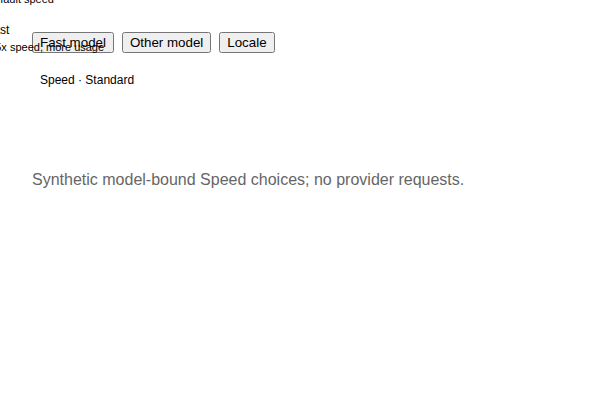
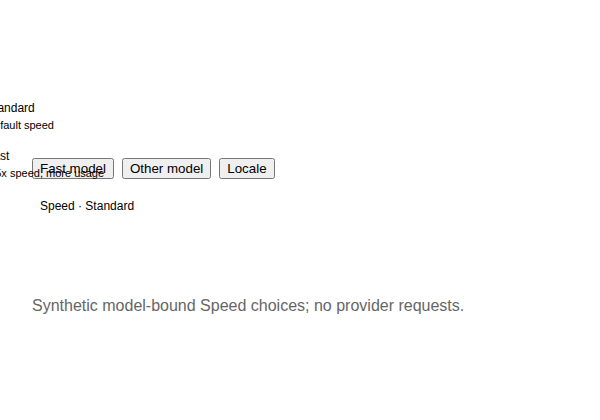
fix: address speed review edge cases

diff --git a/test/speed-select.spec.ts b/test/speed-select.spec.ts
@@ -125,6 +125,50 @@ describe('speed select load timing', { concurrency: false }, () => {
     }
   })
 
+  test('SpeedSelect mount retry does not invalidate a slow in-flight read', async () => {
+    mock.timers.enable({ apis: ['setInterval'] })
+    const uninstall = installWindow()
+    try {
+      let calls = 0
+      const pending: (() => void)[] = []
+      const component = new Component(
+        () =>
+          SpeedSelect({
+            loadSpeed: () => {
+              calls += 1
+              return new Promise<{ visible: true; tier: 'standard' }>(
+                (resolve) => {
+                  pending.push(() =>
+                    resolve({ visible: true, tier: 'standard' }),
+                  )
+                },
+              )
+            },
+            setSpeed: async () => true,
+            watchModel: () => () => {},
+          } as SpeedSelectProps) as Node,
+      )
+      component.render()
+      await settle(component)
+      assert.equal(calls, 1)
+      mock.timers.tick(MODEL_DIRECTORY_POLL_INTERVAL_MS * 2)
+      await settle(component)
+      assert.equal(calls, 1, 'timer ticks must not invalidate the same read')
+      assert.equal(component.tree, null)
+      pending.shift()!()
+      await settle(component)
+      assert.equal(calls, 1)
+      assert.notEqual(component.tree, null)
+      mock.timers.tick(MODEL_DIRECTORY_POLL_INTERVAL_MS * 3)
+      await settle(component)
+      assert.equal(calls, 1, 'a successful read stops mount retries')
+      component.unmount()
+    } finally {
+      uninstall()
+      mock.timers.reset()
+    }
+  })
+
   test('createSpeedLoader hides a session whose model selection is unavailable', async () => {
     let speedCalls = 0
     const load = createSpeedLoader(

diff --git a/src/client/index.ts b/src/client/index.ts
@@ -227,6 +227,7 @@ export function apply(ctx: ClientContext): void {
   // in-popup error posture the /model contribution uses for its guards).
   ctx.inject(['commandUi'], (scope: ClientContext) => {
     const command = scope.get('commandUi') as CommandUiContract
+    let displayedSpeedModel: string | undefined
     scope.effect(
       () =>
         command.register({
@@ -248,7 +249,11 @@ export function apply(ctx: ClientContext): void {
                 models,
                 session.sessionId,
               )()
-              if (!state.visible) throw new Error(t('commandFastUnavailable'))
+              if (!state.visible) {
+                displayedSpeedModel = undefined
+                throw new Error(t('commandFastUnavailable'))
+              }
+              displayedSpeedModel = state.model
               return (
                 [
                   {
@@ -272,7 +277,7 @@ export function apply(ctx: ClientContext): void {
                 connection,
                 session.sessionId,
                 models,
-              )(option.id as 'standard' | 'fast')
+              )(option.id as 'standard' | 'fast', displayedSpeedModel)
               if (wrote) notifySpeedChanged()
             },
           },

diff --git a/src/auth/rpc.ts b/src/auth/rpc.ts
@@ -484,6 +484,14 @@ function readString(payload: unknown, field: string): string {
   return value
 }
 
+/** Read a model id, rejecting whitespace-only values that cannot be persisted. */
+function readModel(payload: unknown): string {
+  const model = readString(payload, 'model')
+  if (model.trim().length === 0)
+    throw new BadRequest('payload.model must not be blank')
+  return model
+}
+
 /** Read a field that may be omitted, rejecting an empty or non-string value. */
 function readOptionalString(
   payload: unknown,
@@ -794,7 +802,7 @@ async function dispatch(
           readSessionId(payload),
           (payload as Record<string, unknown>).model === undefined
             ? undefined
-            : readString(payload, 'model'),
+            : readModel(payload),
         ),
       )
     case 'setSpeed':
@@ -803,7 +811,7 @@ async function dispatch(
         readSpeedTier(payload),
         (payload as Record<string, unknown>).model === undefined
           ? undefined
-          : readString(payload, 'model'),
+          : readModel(payload),
       )
       return ok({ ok: true })
     case 'modelDefaults': {

diff --git a/src/client/SpeedSelect.tsx b/src/client/SpeedSelect.tsx
@@ -363,14 +363,17 @@ export function SpeedSelect({
       clearInterval(retry)
       retry = undefined
     }
-    const reload = (): void => {
+    const reload = (invalidate = true): void => {
       const load = loadRef.current
       if (load === undefined) return
-      const id = ++generation.current
       if (inflight) {
-        again = true
+        if (invalidate) {
+          again = true
+          generation.current += 1
+        }
         return
       }
+      const id = ++generation.current
       inflight = true
       void load()
         .then(
@@ -396,7 +399,8 @@ export function SpeedSelect({
     reloadRef.current = reload
     reload()
     retry = setInterval(() => {
-      if (!loadedOnce) reload()
+      // A slow in-flight read is not stale merely because the retry timer fired.
+      if (!loadedOnce) reload(false)
     }, MODEL_DIRECTORY_POLL_INTERVAL_MS)
     const unsubscribe = watchRef.current?.(reload)
     const onSpeedChanged = (): void => {

diff --git a/test/subagent-speed.spec.ts b/test/subagent-speed.spec.ts
@@ -171,6 +171,20 @@ test('main, model-bound and subagent speeds stay independent through RPC, routin
       (await host.call('speed', { sessionId: 'child', model: 1 })).ok,
       false,
     )
+    assert.equal(
+      (await host.call('speed', { sessionId: 'child', model: '   ' })).ok,
+      false,
+    )
+    assert.equal(
+      (
+        await host.call('setSpeed', {
+          sessionId: 'child',
+          tier: 'fast',
+          model: '   ',
+        })
+      ).ok,
+      false,
+    )
     const catalog = await host.call('providerSettings', { provider: 'codex' })
     assert.ok(catalog.ok)
     assert.deepEqual(

diff --git a/test/model-speeds.spec.ts b/test/model-speeds.spec.ts
@@ -26,6 +26,8 @@ test('composer model speeds persist independently and concurrent writes retain a
     )
     await writeFile(path, '\uFEFF{"first":"fast"}')
     assert.equal(new ModelSpeeds(path).get('first'), 'fast')
+    assert.throws(() => store.set('   ', 'fast'), /invalid model speed/)
+    assert.equal(new ModelSpeeds(path).get('first'), 'fast')
     await writeFile(path, '\uFEFF{"first":"invalid"}')
     assert.throws(() => new ModelSpeeds(path), /Cannot read model speeds/)
   } finally {

diff --git a/test/speed-select-browser.fixture.tsx b/test/speed-select-browser.fixture.tsx
@@ -59,7 +59,7 @@ function Fixture() {
   const [locale, setLocale] = useState<'en' | 'zh'>('en')
   const dictionary = locale === 'en' ? en : zh
   return (
-    <main style={{ fontFamily: 'sans-serif', padding: 24 }}>
+    <main style={{ fontFamily: 'sans-serif', padding: '150px 24px 24px' }}>
       <div style={{ display: 'flex', gap: 8, marginBottom: 16 }}>
         <button
           onClick={() => {

diff --git a/src/model-speeds.ts b/src/model-speeds.ts
@@ -38,6 +38,7 @@ export class ModelSpeeds {
   }
 
   set(model: string, tier: SpeedTier): Promise<void> {
+    if (!model.trim()) throw new Error('invalid model speed')
     const run = this.writes.then(async () => {
       const next = new Map(this.current).set(model, tier)
       await mkdir(dirname(this.path), { recursive: true })
